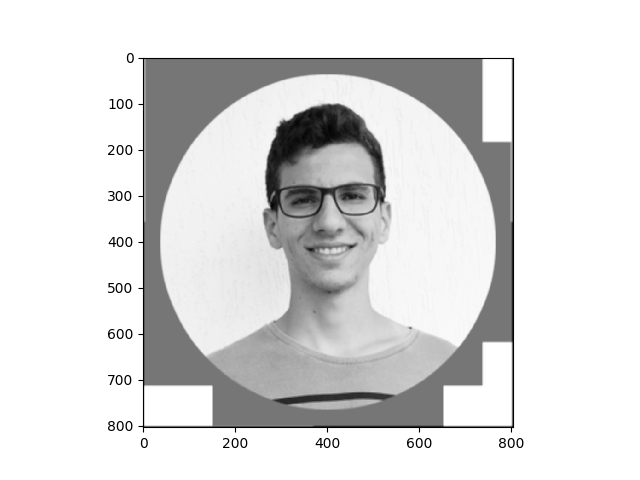
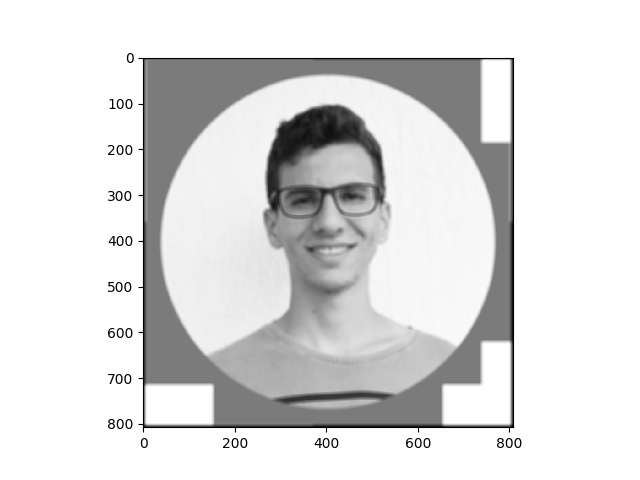
partial readme finished

diff --git a/deblurring.py b/deblurring.py
@@ -20,8 +20,6 @@ def gaussian_kernel(k_len = 10, sigma = 3):
     d_mat[k_len//2, k_len//2] = 1
     return fi.gaussian_filter(d_mat, sigma)
 
-# plt.imshow(gaussian_kernel(), cmap=cm.Greys_r)
-# plt.show()
 im = Image.open('assets/pb.png')
 im_grey = im.convert('L') # convert the image to *greyscale*
 im_array = np.array(im_grey)
@@ -70,5 +68,5 @@ def lst_sq_grad(x, A=G, b=flat_blurry_image):
 optim_output = optimize.minimize(lst_sq, np.zeros(N**2), method='L-BFGS-B', jac=lst_sq_grad, options={'disp':True})
 
 final_image = optim_output['x']
-plt.imshow(final_image, cmap=cm.Greys_r)
+plt.imshow(final_image.reshape((N,)*2), cmap=cm.Greys_r)
 plt.savefig('assets/deblurring_deblurred_image.png')

diff --git a/README.md b/README.md
@@ -2,7 +2,7 @@
 
 O projeto desenvolvido trata-se de image de-blurring via minimização de quadrados mínimos. A partir de uma imagem preto e branco, produz-se a versão borrada da imagem usando um filtro gaussiano 2D e em seguida desborra-se a imagem por meio do método proposto.
 
-# Convolução
+## Convolução
 No processamento de imagens, um kernel, matriz de convolução ou máscara é uma matriz pequena. Ele é usado para desfoque, nitidez, relevo, detecção de bordas e muito mais. Isso é feito fazendo uma convolução entre um kernel e uma imagem. Um exemplo simples de convolução trata-se da máscara para detecção de bordas na imagem.
 
 #### Detecção de bordas por meio de máscaras de Sobel
@@ -69,13 +69,13 @@ Para a detecção de bordas a partir de gradientes na vertical, obtém-se
 
 ![edge_after](assets/edge_after.png)
 
-#### Borrar/suavizar imagem por meio de máscaras Gaussianas 2D
+## Suavização de imagem por meio de máscaras Gaussianas 2D
 
 No processamento de imagens, um desfoque gaussiano é o resultado do desfoque de uma imagem por uma função gaussiana. É um efeito amplamente utilizado para reduzir o ruído da imagem e reduzir os detalhes. O efeito visual desta técnica de desfoque é um desfoque suave semelhante ao da visualização da imagem através de uma tela translúcida. O alisamento gaussiano também é usado como um estágio de pré-processamento em algoritmos de visão computacional para melhorar as estruturas de imagem em diferentes escalas - veja a representação do espaço de escala e a implementação do espaço de escala.
 
 Matematicamente, aplicar um desfoque gaussiano a uma imagem é o mesmo que convolver a imagem com uma função gaussiana. Como a transformada de Fourier de um Gauss é outro Gaussiano, a aplicação de um desfoque gaussiano tem o efeito de reduzir os componentes de alta frequência da imagem; um borrão gaussiano é, portanto, um filtro de baixa passagem.
 
-##### Aplicação de máscara Gaussiana
+#### Aplicação de máscara Gaussiana
 
 Uma máscara gaussiana é obtida a partir da discretização de uma distribuição normal 2D, dado desvio padrão e largura da máscara, considerando média zero da distribuição. O código em Python que produz uma máscara gaussiana (kernel), segue abaixo
 
@@ -97,7 +97,7 @@ plt.imshow(kernel, cmap=cm.Greys_r)
 plt.savefig('assets/kernel.png')
 ```
 
-Para desvio padrão = 5 e largura da máscara = 9, tem-se a máscara abaixo
+Para desvio padrão = 5 e largura da máscara = 9, tem-se a máscara gaussiana abaixo
 
 ![edge_after](assets/readme_kernel.png)
 
@@ -138,8 +138,120 @@ Após a aplicação do filtro gaussiano, tem-se a imagem desfocada a seguir
 
 ![edge_after](assets/readme_deblurring_blurry_image.png)
 
+#### Correção da aplicação do filtro gaussiano por meio de minimização de quadrados mínimos
+
+Dada uma imagem borrada em sua representação matricial y e dado um filtro gaussiano G, desejamos obter a representação matricial x da versão original da imagem. Para isso, dado um sistema linear Ax=y, desejamos obter a melhor solução x tal que ||Gx-y||² é mínimo. Nota-se que nesse caso, (d/dx)||Gx-y||² = 0, logo temos (d/dx)||Gx-y||² = 2G'(Gx-y) = 0. Assim, devemos resolver o 2G'(Gx-y)=0, ou seja, x=(G'G)^(-1)G'y.
+
+A dificuldade, de início, é obter a matriz G de convolução gaussiana. Nota-se que pode-se considerar que a convolução com um filtro gaussiano 2D é separável em duas convoluções 1D independentes, de forma que se realiza inicialmente a convolução com um filtro gaussiano nas linhas e então a convolução com outro filtro nas colunas da matriz. Para um filtro gaussiano 1D de dimensão n, tem-se que a convolução em linhas pode ser representada por produto de Kronecker(Im, T), onde T é a matriz de Toeplitz de um filtro gaussiano 1D de dimensão n, conveniente para operação de convolução. Analogamente, a convolução nas colunas pode ser escrita como produto de Kronecker(TIm+n). Finalmente,
+
+G=(roduto de Kronecker(TIm+n))(produto de Kronecker(Im, T))
+
+Nota-se que a obtenção do filtro gaussiano é um processo empírico e deve-se testar filtros 1D discretos com diferentes variâncias e dimensões. Assim, obtida a matriz G, buscou-se minimizar f(x) = ||Gx-y||².
+
+O código em Python, para esse procedimento, é
+
+```python
+from scipy.signal import convolve2d
+import cv2
+import numpy as np
+from matplotlib import pyplot as plt
+from scipy.stats import norm
+import scipy.optimize as optimize
+import scipy.ndimage.filters as fi
+import pylab as pl
+import matplotlib.cm as cm
+import numpy as np
+from PIL import Image
+from pprint import pprint
+from scipy.stats import norm
+from scipy.linalg import toeplitz
+from scipy import linalg
+from scipy import fftpack, sparse
+
+def gaussian_kernel(k_len = 10, sigma = 3):
+    d_mat = np.zeros((k_len, k_len))
+    d_mat[k_len//2, k_len//2] = 1
+    return fi.gaussian_filter(d_mat, sigma)
+
+im = Image.open('assets/pb.png')
+im_grey = im.convert('L') # convert the image to *greyscale*
+im_array = np.array(im_grey)
+
+plt.imshow(im_array, cmap=cm.Greys_r)
+plt.savefig('assets/deblurring_before.png')
+
+nitems, sigma = 9, 5
+blurry_image = convolve2d(im_array, gaussian_kernel(nitems, sigma))
+
+plt.imshow(blurry_image, cmap=cm.Greys_r)
+plt.savefig('assets/deblurring_blurry_image.png')
+
+# Generates the toeplitz matrix for the 1D convolution
+def toeplitz(b, n):
+    m = len(b)
+    T = np.zeros((n+m-1, n))
+    for i in range(n+m-1):
+        for j in range(n):
+            if 0 <= i-j < m:
+                T[i,j] = b[i-j]
+    return T
+
+# print(toeplitz([1,2,3], 10))
+
+N = im_array.shape[0]
+
+def gaussian1d(k_len = 5, sigma = 3):
+    return gaussian_kernel(k_len, sigma)[k_len//2,:]
+
+curr_1d_kernel = gaussian1d(nitems, sigma)
+# Gaussian 1D kernel as matrix
+T = toeplitz(curr_1d_kernel, N)
+
+row_mat = sparse.kron(sparse.eye(N), T)
+col_mat = sparse.kron(T, sparse.eye(N+nitems-1))
+G = col_mat.dot(row_mat)
+
+flat_blurry_image = blurry_image.flatten()
+
+def lst_sq(x, A=G, b=flat_blurry_image):
+    return linalg.norm(b - A.dot(x))**2
+def lst_sq_grad(x, A=G, b=flat_blurry_image):
+    return 2*A.T.dot(A.dot(x) - b)
+
+optim_output = optimize.minimize(lst_sq, np.zeros(N**2), method='L-BFGS-B', jac=lst_sq_grad, options={'disp':True})
+
+final_image = optim_output['x']
+plt.imshow(final_image, cmap=cm.Greys_r)
+plt.savefig('assets/deblurring_deblurred_image.png')
+```
+
+Por fim, para a imagem borrada a seguir,
+
+![edge_after](assets/readme_deblurring_blurry_image.png)
+
+o resultado obtido é muito satisfatório e encontra-se a seguir
+
+![edge_after](assets/deblurring_deblurred_image.png)
+
+
 ### Referências
 
 - Sobel Edge Detection Algorithm
 
 https://pdfs.semanticscholar.org/6bca/fdf33445585966ee6fb3371dd1ce15241a62.pdf
+
+- Least-squares and image processing
+
+https://guille.site/ls-images.html
+
+- Kernel (image processing)
+
+https://en.wikipedia.org/wiki/Kernel_(image_processing)
+
+- Gaussian Smoothing
+
+http://homepages.inf.ed.ac.uk/rbf/HIPR2/gsmooth.htm
+
+- Deriving the Normal Equation using matrix calculus
+
+https://ayearofai.com/rohan-3-deriving-the-normal-equation-using-matrix-calculus-1a1b16f65dda
